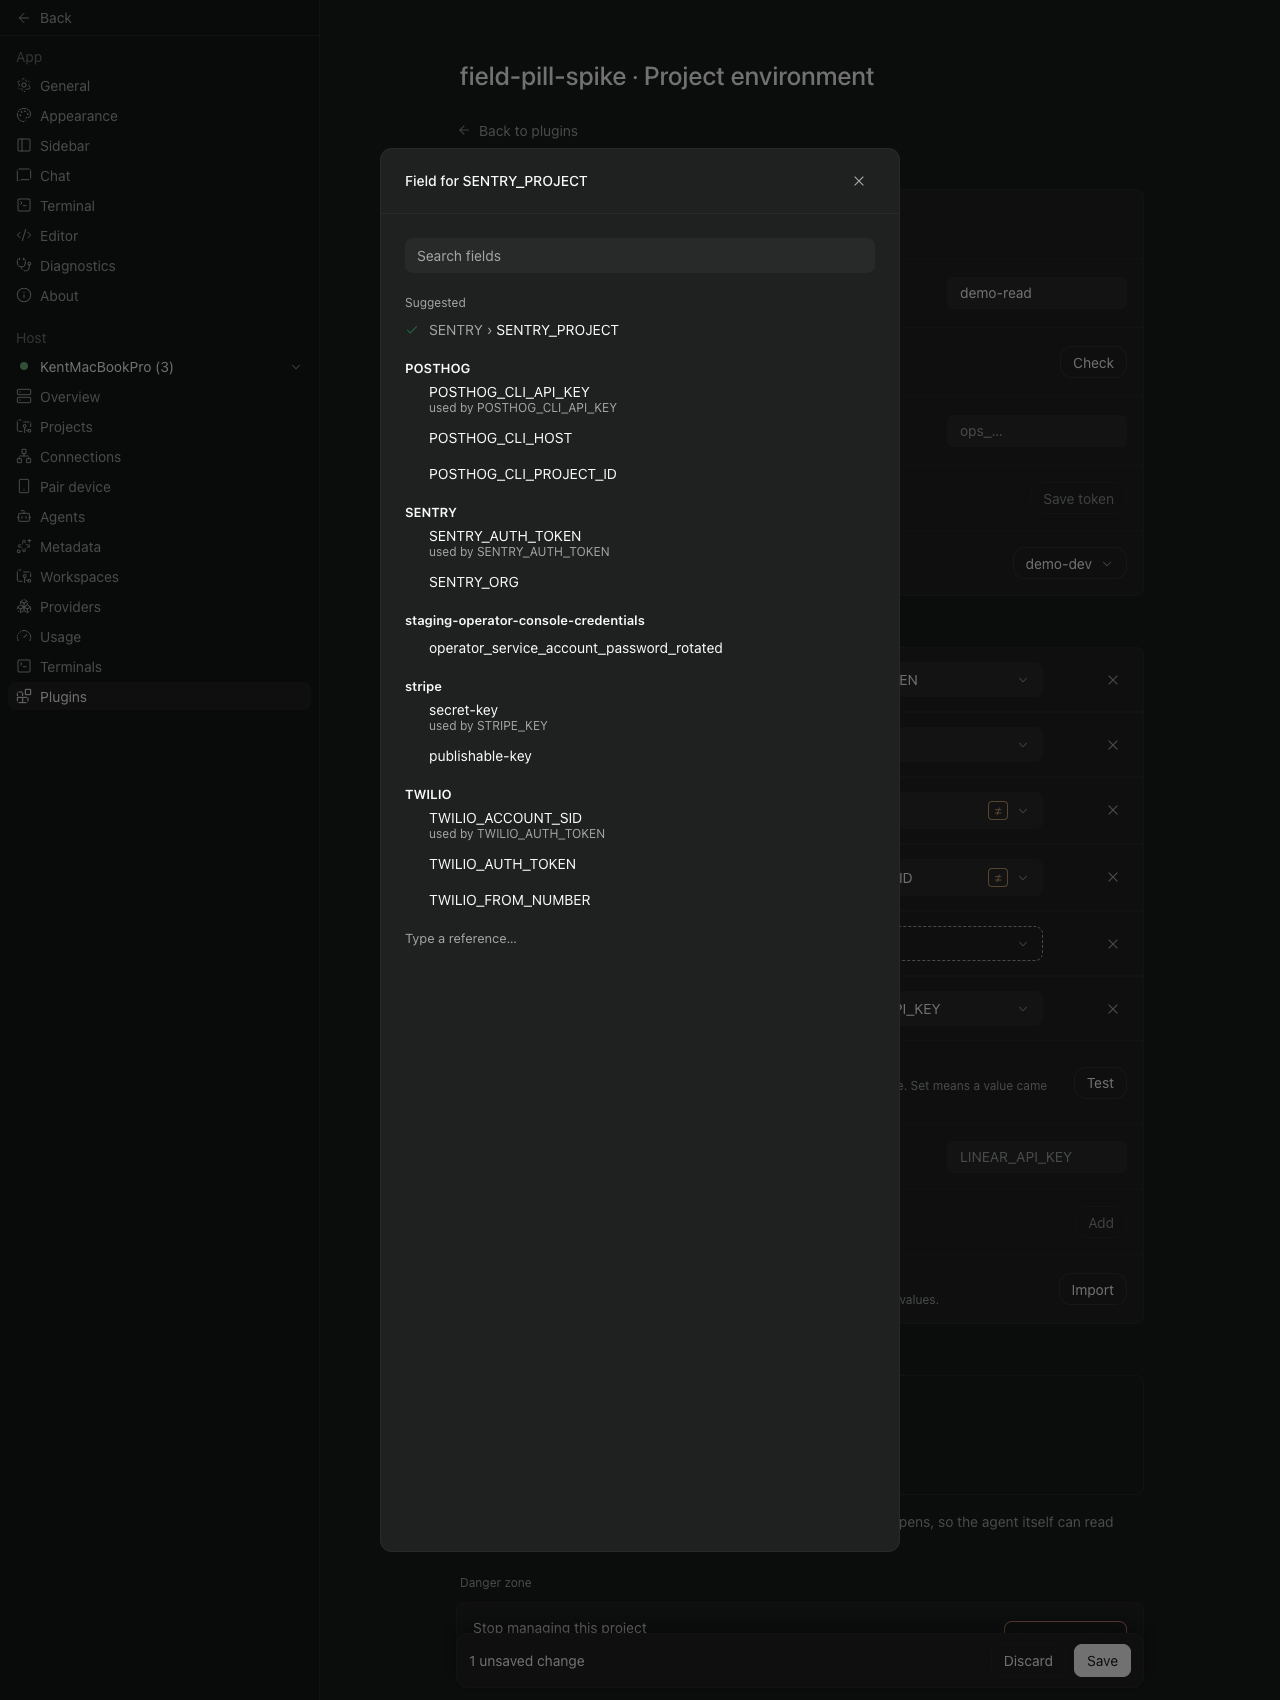
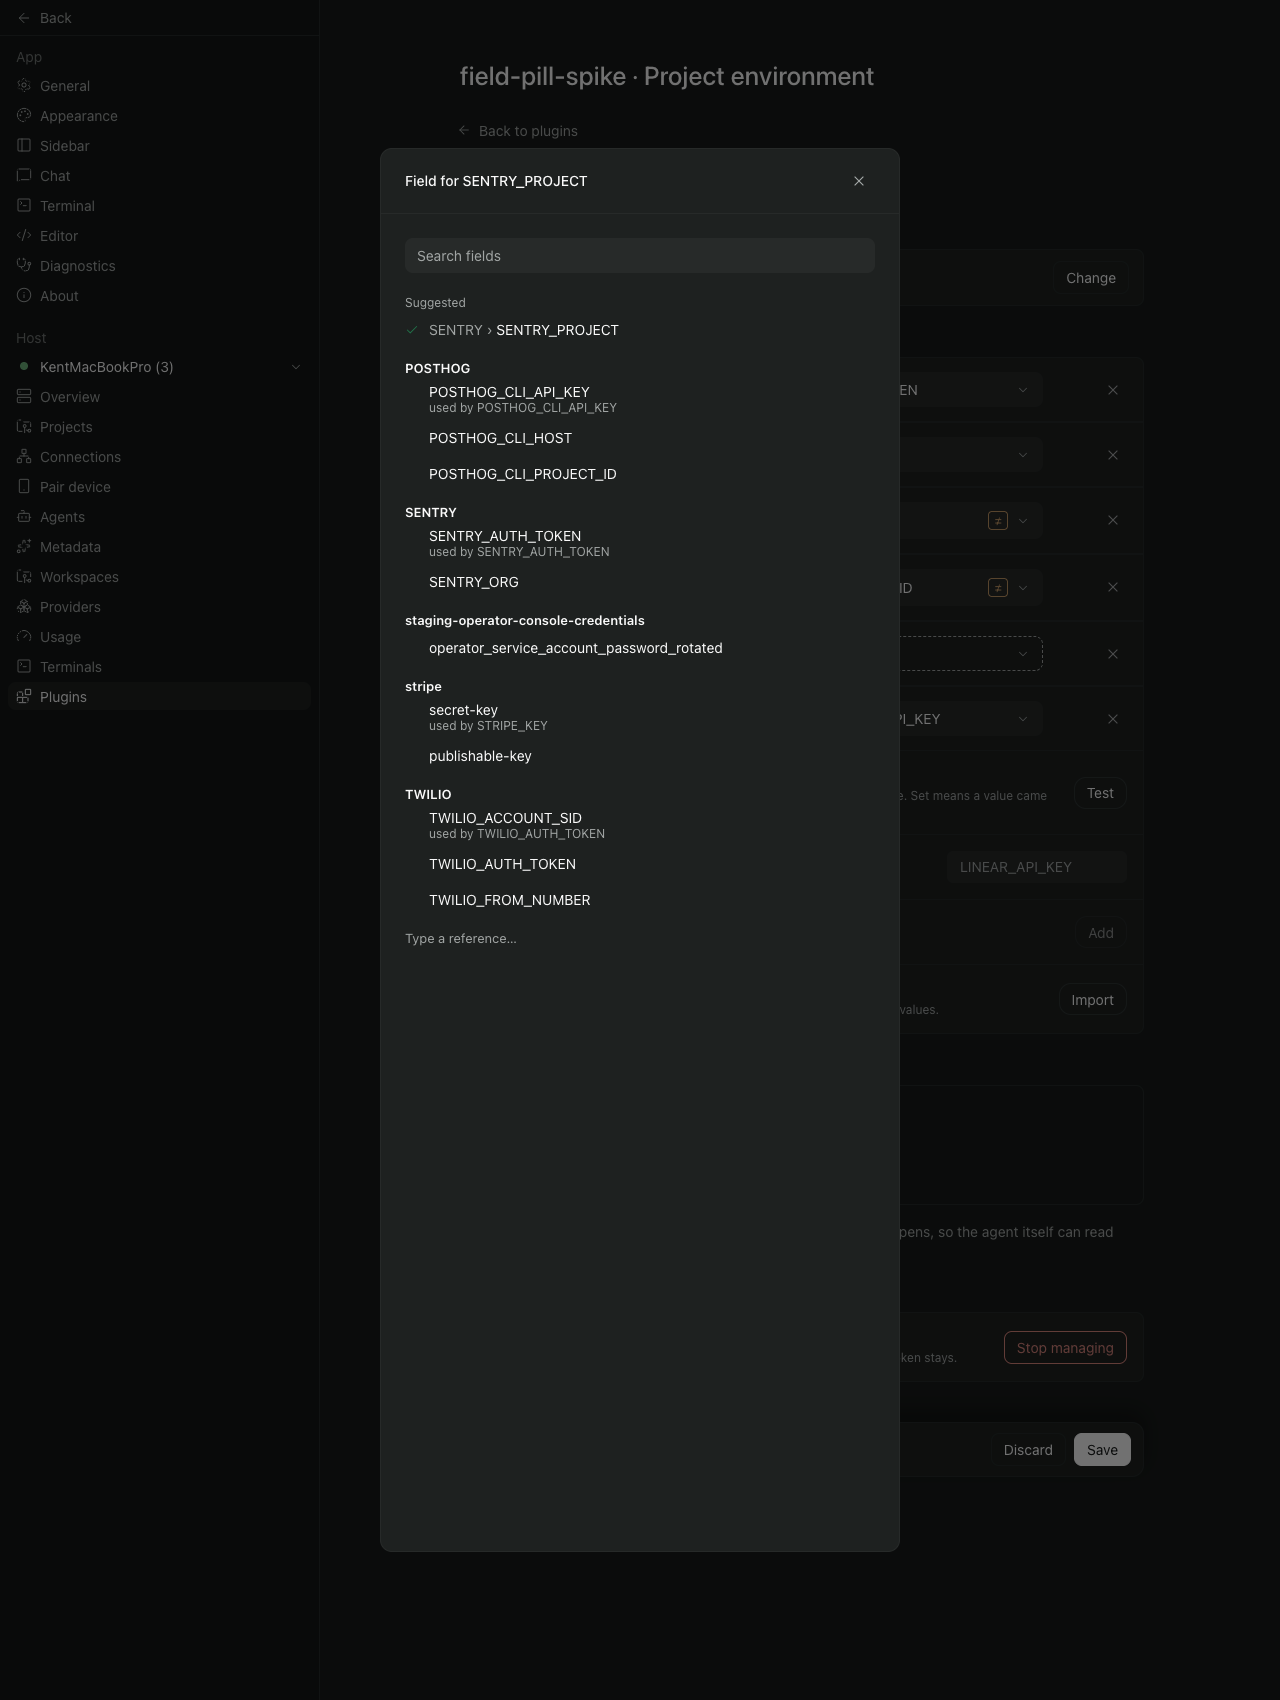
validation cycle 3: field pill one control PASSED at d6e5c10, token replacement check

Changed region(s): [[0.8125, 0.9665, 0.9062, 0.9976], [0.8125, 0.8418, 0.9062, 0.8729], [0.8125, 0.7794, 0.875, 0.8106]]

diff --git a/project-env-field-pill-one-control/validation/spike/index.server.conn.ts b/project-env-field-pill-one-control/validation/spike/index.server.conn.ts
@@ -1,0 +1,46 @@
+import type { PluginServerContext } from "@getpaseo/plugin/server";
+import { contribute } from "./server/contribute";
+import { makeWorld } from "./server/spike-world";
+
+// Disposable: fake op/security/git, so no Keychain or 1Password is touched. Names only, no real value.
+const fields = (labels: string[]) => labels.map((label) => ({ label, type: "CONCEALED", value: "x" }));
+const mode = process.env.FIELD_PILL_MODE ?? "base";
+const world = makeWorld({
+  keychain: { "demo-read": mode === "badtoken" ? "bad" : "a" },
+  op: {
+    ...(mode === "slowtoken" ? { vaultListDelayMs: 4000 } : {}),
+    ...(mode === "slow" ? { itemListDelayMs: 1500 } : {}),
+    ...(mode === "fail" ? { fail: { "item list": { stderr: "[ERROR] network unreachable" } } } : {}),
+    accounts: {
+      b: {
+        vaults: ["demo-dev"],
+        refs: { "op://demo-dev/NEWCO/NEW_FIELD_ONE": "x" },
+        items: [{ id: "n1", title: "NEWCO", category: "SECURE_NOTE", fields: fields(["NEW_FIELD_ONE", "NEW_FIELD_TWO"]) }],
+      },
+      a: {
+        vaults: ["demo-dev"],
+        refs: {
+          "op://demo-dev/SENTRY/SENTRY_AUTH_TOKEN": "x",
+          "op://demo-dev/SENTRY/SENTRY_PROJECT": "x",
+          "op://demo-dev/stripe/secret-key": "x",
+          "op://demo-dev/TWILIO/TWILIO_ACCOUNT_SID": "x",
+          "op://demo-dev/POSTHOG/POSTHOG_CLI_API_KEY": "x",
+          "op://demo-dev/POSTHOG/POSTHOG_CLI_HOST": "x",
+        },
+        items: [
+          { id: "i1", title: "SENTRY", category: "SECURE_NOTE", fields: fields(["SENTRY_AUTH_TOKEN", "SENTRY_ORG", "SENTRY_PROJECT"]) },
+          { id: "i2", title: "stripe", category: "SECURE_NOTE", fields: fields(["secret-key", "publishable-key"]) },
+          { id: "i3", title: "TWILIO", category: "SECURE_NOTE", fields: fields(["TWILIO_ACCOUNT_SID", "TWILIO_AUTH_TOKEN", "TWILIO_FROM_NUMBER"]) },
+          { id: "i4", title: "POSTHOG", category: "SECURE_NOTE", fields: fields(["POSTHOG_CLI_API_KEY", "POSTHOG_CLI_HOST", "POSTHOG_CLI_PROJECT_ID"]) },
+          { id: "i5", title: "staging-operator-console-credentials", category: "SECURE_NOTE", fields: fields(["operator_service_account_password_rotated"]) },
+          { id: "i6", title: "deploy-key", category: "SSH_KEY", fields: [] },
+        ],
+      },
+    },
+  },
+  git: { answers: {} },
+});
+
+export default function plugin(server: PluginServerContext) {
+  return contribute(server, world.tools);
+}

diff --git a/project-env-field-pill-one-control.md b/project-env-field-pill-one-control.md
@@ -330,3 +330,45 @@ New head d6e5c10620af09bf66f82d553567eeff322735cc, pushed to PR #24 (merge commi
 - `npm test` 191 pass, 0 fail; `npm run typecheck` clean.
 - roborev gate, `--base 681f861ee07c847a83fb59ccb6be27c26960ae95`, on d6e5c10: exit 1, `evidence=roborev:1050` (findings on d6e5c1062). The same two findings as before, not fixed: the vault list is not refreshed once loaded (the review adds "or after replacing the token"; AC-1 requires the second press to read nothing), and the stand-in picker keeps its search text after a pick (picker-grouped's file).
 - validation/accept.sh: sha edited to d6e5c10 and run fresh, every expected line met (grep exit 1; pass 33, fail 0; reads 0, 1, 1 at 1280 and 0, 1 at 400; Remove line; 5 rows left; 6 saved variables). validation/merged.sh holds no sha (it builds the worktree HEAD), so it needed no edit; run fresh on d6e5c10 it printed ALL PASS (38 checks at 1280 and 400 px).
+
+## Stage Report: validation (cycle 3)
+
+Verdict: PASSED (recommended) for candidate d6e5c10620af09bf66f82d553567eeff322735cc (PR #24: merge of main 681f861, the connection line from PR #25, on the validated 316bd4c). No new Material finding. The extra token check FO asked for: the stated scenario is not stuck; the "replaced token" variant leaves a stale list (a Deferred risk, below).
+
+- DONE: Check AC-1 to AC-3, amendment 1, the P2 fix, the save bar and Danger zone still hold on the merged page.
+  Fresh `env -i` bash at d6e5c10: `validation/accept.sh` met every expected line (grep exit 1; pass 33, fail 0; reads 0, 1, 1 at 1280 and 0, 1 at 400; Remove line; 5 rows left; 6 saved variables). `validation/merged.sh` ALL PASS, 38 checks at 1280 and 400. `validation/spike/p2.sh d6e5c10620af09bf66f82d553567eeff322735cc after`: Loading-the-vault 1 at 1 s and 5 s, then 0 with the field list shown at 9, 14 and 20 s, 1 read. Shots `validation/shots-merged-c3/`.
+- DONE: Check the connection line works beside the pill rows.
+  New `validation/conn.sh line` (wrapper of `validation/spike/conn.sh`), fresh `env -i` bash, ALL PASS at 1280 and 400: one row reading "Connected · demo-read · demo-dev" with a Change button, no token box and no Check button; Change reopens the controls with Done and Cancel; after typing another account name, Cancel restores the row, the account and "No unsaved changes"; Change then Done returns to the row. Shots `validation/shots-conn/*-c01..c03`.
+- DONE: Run the package scripts and record exit codes.
+  adr_lint `docs/adr --since 60799d9`: "5 ADR file(s) checked, 0 legacy", exit 0. comment_ratio (d61e243..d6e5c10) exit 0, 1 comment line in 1041 code lines (the stand-in). doc_impact exit 0 (ADR 0004 listed, earlier `unaffected` reason stands). dispatch_records exit 0 (8 complete). design_surfaces exit 0. `npm test` 191 pass, 0 fail; `npm run typecheck` clean.
+- DONE: Extra check FO asked for (roborev:1050: stale list "or after replacing the token").
+  Fake world, whole run in `validation/conn.sh fixtoken` and `swaptoken` (fake tokens `ops_fake_a`/`ops_fake_b`, no secret). A, as asked: saved token rejected, pill shows "1Password rejected the token / Copy a fresh token from 1Password…", closed; Change, saved a working token for the same account (fake keychain now `demo-read: a`), Done; pill again: the picker lists the fields (SENTRY_ORG present, no error, no "Loading", 1 vault read). Not stuck, at 1280 and at 400. B, the variant: working token and list loaded (1 read), closed; Change, saved a token for different data (keychain `demo-read: b`), Done; pill again: the picker still shows the first list (SENTRY_ORG shown, NEW_FIELD_ONE absent, reads still 1); after reloading the page the same press lists NEW_FIELD_ONE (reads 2). Shots `validation/shots-conn/1280-fixtoken-c10..c12`, `1280-swaptoken-c10..c13`, `400-fixtoken-c10..c12`.
+- DONE: Record what the Captain should see and every unverified obligation.
+  See below.
+
+### Summary
+
+The merged page keeps AC-1 to AC-3, amendment 1, the P2 fix, the save bar and Danger zone, and main's connection line works beside the pill rows at both widths. A person who fixes a rejected token can pick a field on the next press without reopening the page. One Deferred risk, not a finding: replacing a working token with one that reads different data leaves the earlier list until the page is reloaded. It follows the approved design ("kept until the account or vault changes") and AC-1 (a second press reads nothing), so it is not a defect against either. It becomes Material if the Captain wants a replaced token to refresh the list; the fix would be to drop the loaded list when the token is saved (`refs.reset()` in the `store` mutation's `onSuccess`), which changes what AC-1 allows and is FO's and his call. The roborev findings already dispositioned (stand-in search text; no refresh after load) are not re-reported.
+
+### Captain view
+
+At 1280 px the "1Password" section is one row, a green dot, "Connected · demo-read · demo-dev" and a Change button, above the same pill rows, the Danger zone card and the pinned bar ("No unsaved changes", Close, a greyed Save). At 400 px the same row stacks "Connected" over "demo-read · demo-dev" with Change on the right, then the pill rows (name and ✕ on one line, pill below), Danger zone and bar. Change opens the old controls with "Use this connection / Done" and "Keep the current connection / Cancel". A rejected token still opens the picker on "1Password rejected the token"; fixing the token then pressing a pill lists the fields.
+
+### Minimal acceptance script
+
+Run each in a fresh shell, one after another (same isolation as before: port 6871, plugin id field-pill-spike, session fp-val, fake op/security/git, no secret, nothing live), all under `/Users/kent/Project/kc-paseo-plugins/docs/dev2/.spacedock-state/project-env-field-pill-one-control/validation/`:
+1. `bash accept.sh`: candidate sha d6e5c10620af09bf66f82d553567eeff322735cc, `grep exit 1`, `pass 33`/`fail 0`, reads `0 1 1` then `0 1`, the Remove line, `5`, `6`, `done`.
+2. `bash spike/p2.sh d6e5c10620af09bf66f82d553567eeff322735cc after`: `Loading-the-vault: 1` at 1 s and 5 s, then `0` with `field-list-shown(SENTRY_ORG): 1` at 9, 14, 20 s (the daemon stays up: `paseo daemon stop --home /tmp/fp-val-spike/home; agent-browser --session fp-val close; rm -rf /tmp/fp-val-spike`).
+3. `bash merged.sh`: PASS lines then `ALL PASS`.
+4. `bash conn.sh line`: PASS lines and `ALL PASS` for 1280 and 400.
+5. `SIZES=1280:1700 bash conn.sh fixtoken`: `FIRST OPEN: Close-this-list(error)=1 list(SENTRY_ORG)=0`, `1Password rejected the token`, `token row: Token works`, then `SECOND OPEN: Close-this-list(error)=0 list(SENTRY_ORG)=1`.
+6. `SIZES=1280:1700 bash conn.sh swaptoken`: `SECOND OPEN` still `list(SENTRY_ORG)=1 list(NEW_FIELD_ONE)=0` (the stale list), `AFTER RELOAD` `list(SENTRY_ORG)=0 list(NEW_FIELD_ONE)=1`.
+Does not cover: touch, light theme, mid widths, a real 1Password vault or the real Paseo app profile, a failed Test row, picker contents, a refresh after the list loads.
+
+### Unverified obligations
+
+- Tap on a touch device; hover at desktop only; light theme; widths between 400 and 1280.
+- Real 1Password vault and token-check timing (fake op only).
+- Picker loading and error shots `05`, `06`, `07` and the failed-row look `10`: implementation's shots only; the rejected-token error was seen here (`fixtoken-c10`).
+- Runtime-wiring mutation of read-once and ≠ not opening the picker: not run. No unit test for the P2 fix.
+- Variant B (replaced token, different data) depends on a fake world where a token for the same keychain name reads other items; a real rotated token normally reads the same data.
